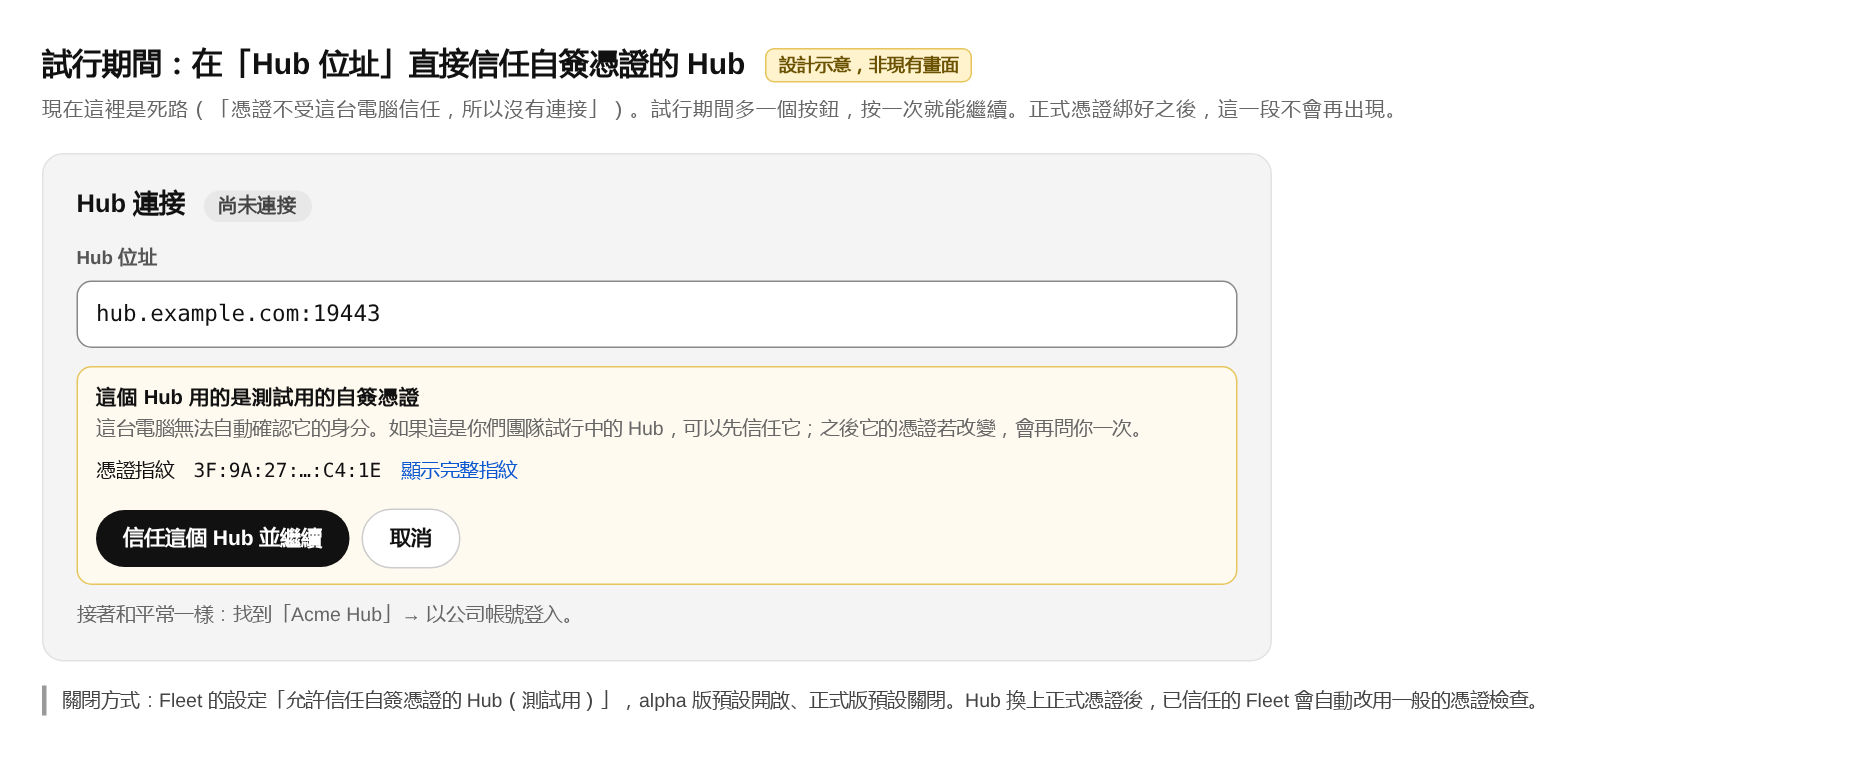
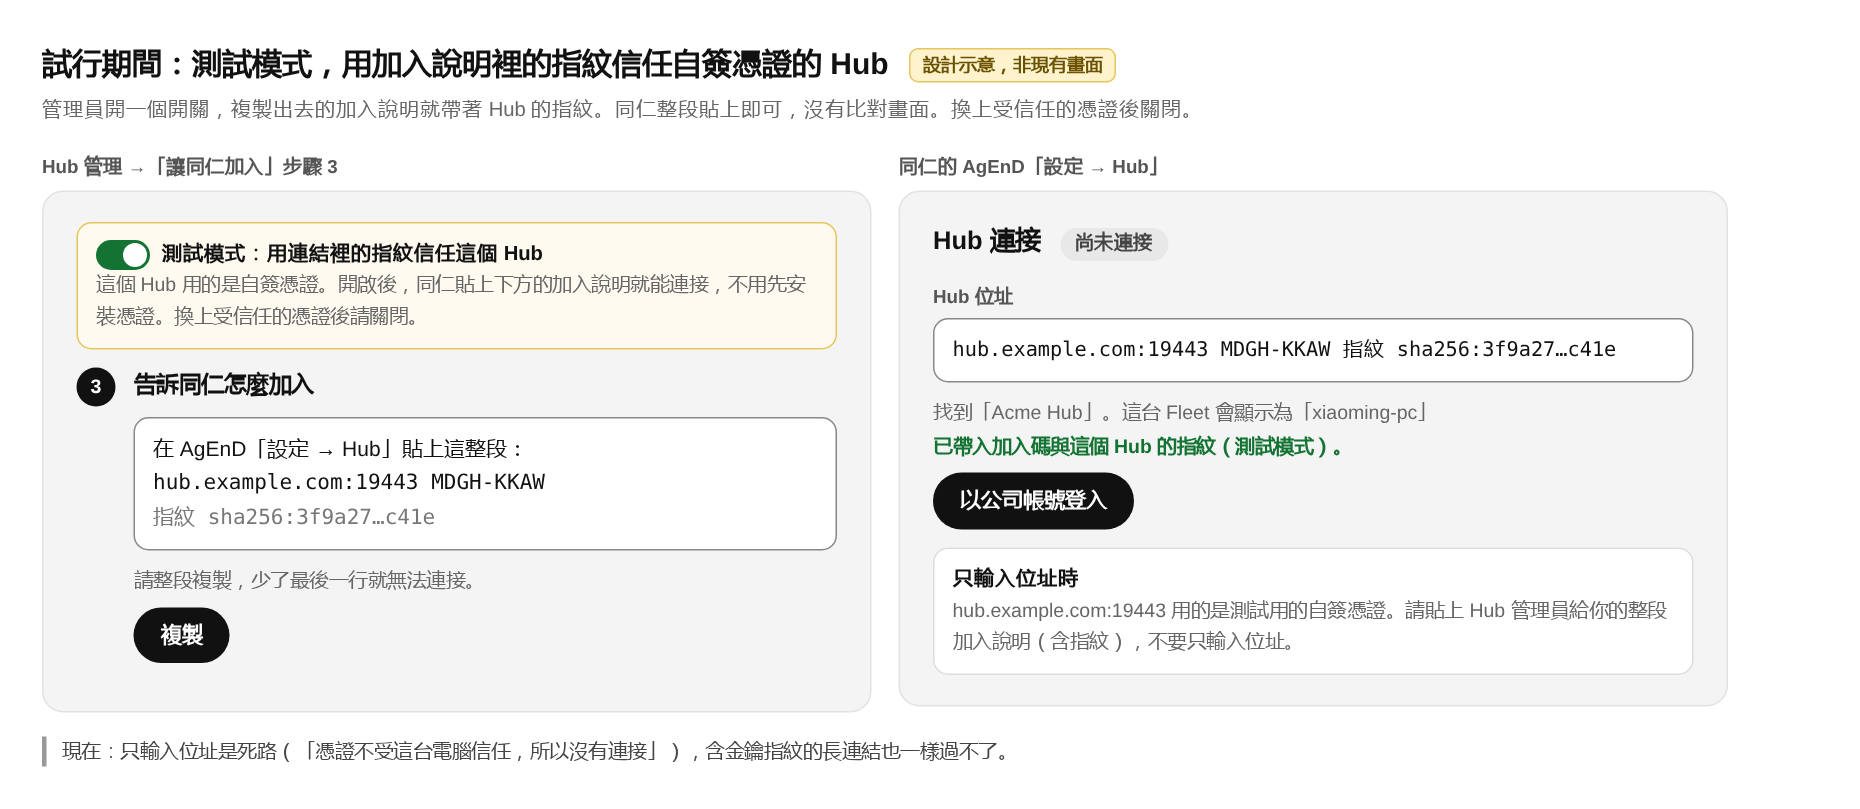
docs(hub): pilot trust follows the decided approach — test mode, fingerprint in the join text

diff --git a/docs/evidence/hub-product-plan/src/q4-pilot-trust.html b/docs/evidence/hub-product-plan/src/q4-pilot-trust.html
@@ -1,10 +1,13 @@
-<!doctype html><html lang="zh-Hant"><meta charset="utf-8"><link rel="stylesheet" href="m.css"><body><h1>試行期間：在「Hub 位址」直接信任自簽憑證的 Hub <span class="tag">設計示意，非現有畫面</span></h1>
-<p class="sub">現在這裡是死路（「憑證不受這台電腦信任，所以沒有連接」）。試行期間多一個按鈕，按一次就能繼續。正式憑證綁好之後，這一段不會再出現。</p>
-<div class="card" style="max-width:820px"><h2>Hub 連接 <span class="pill gray">尚未連接</span></h2>
-<div class="grp">Hub 位址</div><div class="in" style="margin-top:4px"><span class="mono">hub.example.com:19443</span></div>
-<div class="imp" style="border-color:#e6c65c;background:#fffaf0"><b>這個 Hub 用的是測試用的自簽憑證</b><br><span class="muted">這台電腦無法自動確認它的身分。如果這是你們團隊試行中的 Hub，可以先信任它；之後它的憑證若改變，會再問你一次。</span>
-<div class="mono" style="margin:8px 0;font-size:13px">憑證指紋　3F:9A:27:…:C4:1E　<span class="link">顯示完整指紋</span></div>
-<span class="btn">信任這個 Hub 並繼續</span><span class="btn ghost">取消</span></div>
-<div class="muted" style="margin-top:10px">接著和平常一樣：找到「Acme Hub」→ 以公司帳號登入。</div></div>
-<div class="note">關閉方式：Fleet 的設定「允許信任自簽憑證的 Hub（測試用）」，alpha 版預設開啟、正式版預設關閉。Hub 換上正式憑證後，已信任的 Fleet 會自動改用一般的憑證檢查。</div>
+<!doctype html><html lang="zh-Hant"><meta charset="utf-8"><link rel="stylesheet" href="m.css"><body><h1>試行期間：測試模式，用加入說明裡的指紋信任自簽憑證的 Hub <span class="tag">設計示意，非現有畫面</span></h1>
+<p class="sub">管理員開一個開關，複製出去的加入說明就帶著 Hub 的指紋。同仁整段貼上即可，沒有比對畫面。換上受信任的憑證後關閉。</p>
+<div class="row"><div class="col"><p class="cap">Hub 管理 →「讓同仁加入」步驟 3</p><div class="card">
+<div class="imp" style="margin-top:0;border-color:#e6c65c;background:#fffaf0"><span class="sw"></span><b>測試模式：用連結裡的指紋信任這個 Hub</b><br><span class="muted">這個 Hub 用的是自簽憑證。開啟後，同仁貼上下方的加入說明就能連接，不用先安裝憑證。換上受信任的憑證後請關閉。</span></div>
+<div class="step" style="border-top:0"><div class="num">3</div><div style="flex:1"><b>告訴同仁怎麼加入</b>
+<div class="in" style="display:block;font-size:14px">在 AgEnD「設定 → Hub」貼上這整段：<br><span class="mono">hub.example.com:19443 MDGH-KKAW</span><br><span class="mono" style="color:#777">指紋 sha256:3f9a27…c41e</span></div>
+<span class="muted">請整段複製，少了最後一行就無法連接。</span><br><span class="btn">複製</span></div></div></div></div>
+<div class="col"><p class="cap">同仁的 AgEnD「設定 → Hub」</p><div class="card"><h2>Hub 連接 <span class="pill gray">尚未連接</span></h2>
+<div class="grp">Hub 位址</div><div class="in" style="margin-top:4px;display:block;font-size:13.5px"><span class="mono">hub.example.com:19443 MDGH-KKAW 指紋 sha256:3f9a27…c41e</span></div>
+<span class="muted">找到「Acme Hub」。這台 Fleet 會顯示為「xiaoming-pc」<br><span class="ok">已帶入加入碼與這個 Hub 的指紋（測試模式）。</span></span><br><span class="btn">以公司帳號登入</span>
+<div class="imp"><b>只輸入位址時</b><br><span class="muted">hub.example.com:19443 用的是測試用的自簽憑證。請貼上 Hub 管理員給你的整段加入說明（含指紋），不要只輸入位址。</span></div></div></div></div>
+<div class="note">現在：只輸入位址是死路（「憑證不受這台電腦信任，所以沒有連接」），含金鑰指紋的長連結也一樣過不了。</div>
 </body></html>
